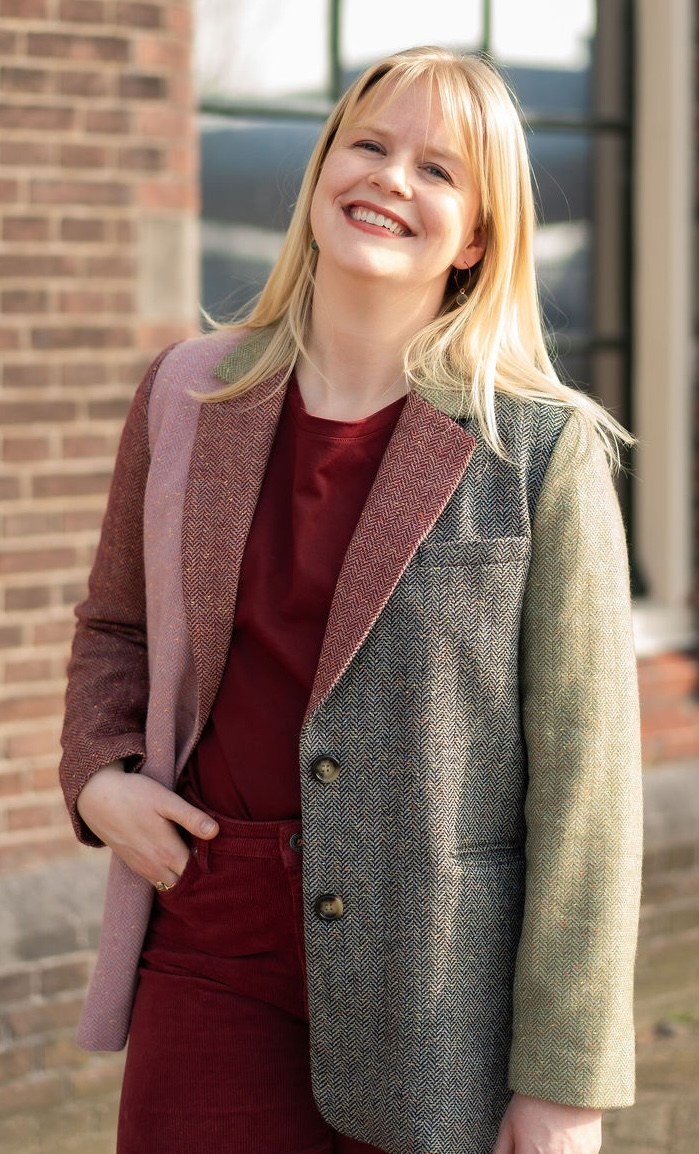
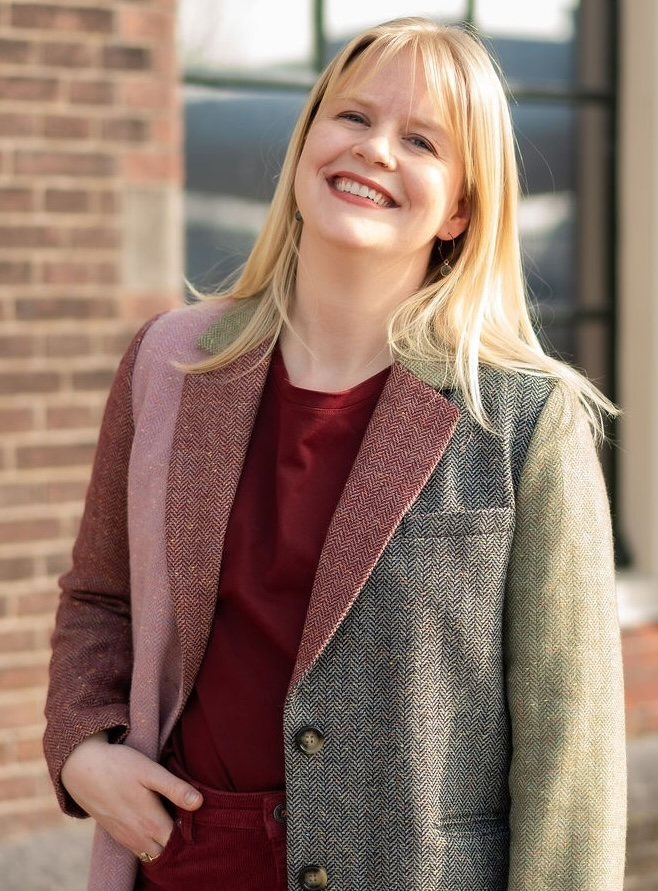
Adding Tim to Team

diff --git a/src/components/team.js b/src/components/team.js
@@ -101,15 +101,29 @@ export const Team = () => {
             </Box>
           </Box>
 
-          <Heading as='h2' size='xl' id='tim-treffers'>
-              Tim Treffers
-          </Heading>
-          <Heading as='h3' size='l'>
-            Communicatie
-          </Heading>
-          <Text as='span' textStyle={'paragraphBlock'}>
-            Tim is verantwoordelijk voor communicatie rond de Kinder Klimaat Concert Dag 2026.
-          </Text>
+
+          <Box display='flex' flexDirection={{ base: 'column', md: 'row-reverse' }} alignItems='flex-start' gap={6}>
+            <Image
+              src='/team/TimTreffers.jpeg'
+              alt='Tim Treffers'
+              w={{ base: '100%', md: '220px' }}
+              maxW={{ base: '200px', md: '180px' }}
+              borderRadius='lg'
+              boxShadow='md'
+              flexShrink={0}
+            />
+            <Box>
+              <Heading as='h2' size='xl' pb={0} pt={0} mt={0} id='tim-treffers'>
+                Tim Treffers
+              </Heading>
+              <Heading as='h3' size='l'>
+                Communicatie
+              </Heading>
+              <Text as='span' textStyle={'paragraphBlock'}>
+                Tim Treffers (1988) doet zowel PR als productie in de creatieve sector. Hij werkt voor onder andere het Koninklijk Conservatorium Den Haag en verschillende theatergezelschappen zoals Dood Paard en Theaterstraat. Daarnaast bracht hij als zanger 3 albums uit in Japan en is hij als schrijver verantwoordelijk voor de boeken 'Polderpower: vrouwen in de nederpop' (2025) en 'Chez Manfred' (2026) over het leven van queericoon Manfred Langer.
+              </Text>
+            </Box>
+          </Box>
 
           <Box display='flex' flexDirection={{ base: 'column', md: 'row-reverse' }} alignItems='flex-start' gap={6}>
             <Image